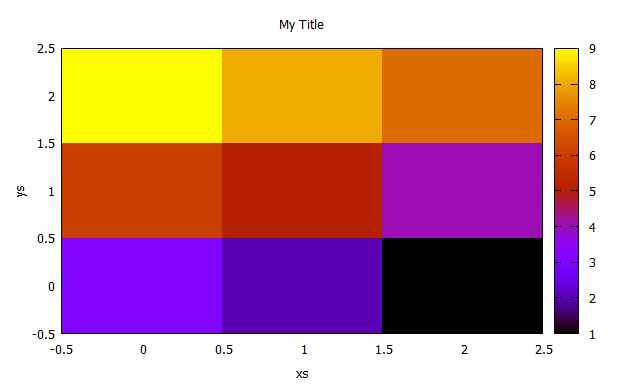
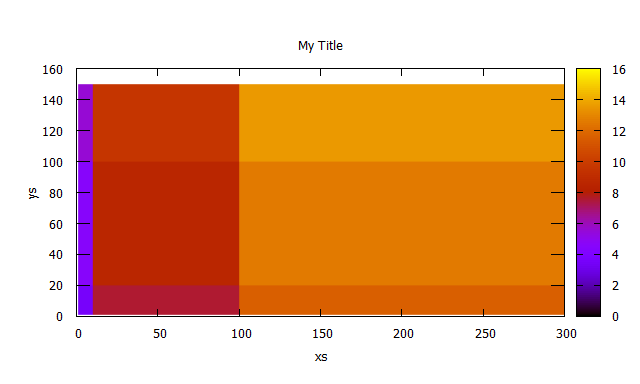
Fixing heatmap plotting

diff --git a/src/configuration/plot/style - Copy.rs b/src/configuration/plot/style - Copy.rs
@@ -1,0 +1,98 @@
+//! Styles for plotting in gnuplot.
+
+use core::fmt::Display;
+
+/// A small collection of all possible styles.
+///
+/// # Remarks
+///
+/// There are ``From<>`` implementations for ease of use.
+#[derive(Debug, PartialOrd, PartialEq, Clone)]
+pub enum Style {
+    /// Default "default" or 0
+    Default,
+    /// Continuous lines "-" or "lines" or 1
+    Lines,
+    /// Points "+" or "points" or 2
+    Points,
+    /// Points and lines together "-+-" or "linepoints" or 3
+    Linespoints,
+    /// Vertical line per data point "|" or "impulses" or 4
+    Impulses,
+    /// Smallest point possible "." or "dots" or 5
+    Dots,
+    /// Piecewise constant with jumps on data points "_|" or "steps" or 6
+    Steps,
+    /// Piecewise constant with jumps previous to data points "|-"or "fsteps" or 7
+    Fsteps,
+    /// Piecewise constant centered in data points "_-_" or "histeps" or 8
+    Histeps,
+    /// Adjustable piecewise constant centered in data points "_--_" or "boxes" or 9
+    Boxes,
+}
+
+impl From<&str> for Style {
+    fn from(s: &str) -> Self {
+        let s = s.trim().to_lowercase();
+        match s.as_str() {
+            "default" => Style::Default,
+            "lines" | "-" => Style::Lines,
+            "points" | "+" => Style::Points,
+            "linespoints" | "-+-" => Style::Linespoints,
+            "impulses" | "|" => Style::Impulses,
+            "dots" | "." => Style::Dots,
+            "steps" | "_|" => Style::Steps,
+            "fsteps" | "|-" => Style::Fsteps,
+            "histeps" | "_-_" => Style::Histeps,
+            "boxes" | "_--_" => Style::Boxes,
+            _ => Style::Lines,
+        }
+    }
+}
+
+impl From<String> for Style {
+    fn from(s: String) -> Self {
+        Style::from(s.as_str())
+    }
+}
+
+impl From<u32> for Style {
+    fn from(s: u32) -> Self {
+        match s {
+            0 => Style::Default,
+            1 => Style::Lines,
+            2 => Style::Points,
+            3 => Style::Linespoints,
+            4 => Style::Impulses,
+            5 => Style::Dots,
+            6 => Style::Steps,
+            7 => Style::Fsteps,
+            8 => Style::Histeps,
+            9 => Style::Boxes,
+            _ => Style::Default,
+        }
+    }
+}
+
+impl Display for Style {
+    fn fmt(&self, f: &mut core::fmt::Formatter<'_>) -> core::fmt::Result {
+        match self {
+            Style::Default => write!(f, "lines"),
+            Style::Lines => write!(f, "lines"),
+            Style::Points => write!(f, "points"),
+            Style::Linespoints => write!(f, "linespoints"),
+            Style::Impulses => write!(f, "impulses"),
+            Style::Dots => write!(f, "dots"),
+            Style::Steps => write!(f, "steps"),
+            Style::Fsteps => write!(f, "fsteps"),
+            Style::Histeps => write!(f, "histeps"),
+            Style::Boxes => write!(f, "boxes"),
+        }
+    }
+}
+
+impl Default for Style {
+    fn default() -> Self {
+        Style::Default
+    }
+}

diff --git a/src/matrix.rs b/src/matrix.rs
@@ -9,6 +9,19 @@ pub use comparison::Heatmaps;
 
 /// Indexed sequence of values.
 ///
+/// Check out [pm3d documentation] of gnuplot for more options.
+///
+/// # Remarks
+///
+/// If you want to plot the original grid points (and not some interpolation), then
+/// try the command
+/// ```gnuplot
+/// splot <file> with points pointsize 3 pointtype 5 palette
+/// ```
+/// adjusting the pointsize value (in this case `3`) to your case.
+/// This is particularly useful when you have just a few values.
+///
+///
 /// # Examples
 ///
 /// Quick plot.
@@ -31,6 +44,7 @@ pub use comparison::Heatmaps;
 /// ```
 ///
 /// [Heatmap]: struct.Heatmap.html
+/// [pm3d documentation]: http://gnuplot.sourceforge.net/demo/pm3d.html
 #[derive(Debug, PartialEq, Clone)]
 pub struct Heatmap<T, S, U>
 where
@@ -146,6 +160,7 @@ where
                     self.values[i * self.ys.len() + j]
                 ));
             }
+            plotable_data.push_str("\n");
         }
         plotable_data
     }
@@ -160,7 +175,8 @@ where
     fn plot_script(&self) -> String {
         let mut gnuplot_script = self.opening_plot_script();
 
-        gnuplot_script += &format!("plot {:?} using 1:2:3 with image\n", self.data_path(),);
+        gnuplot_script += "set pm3d map\n";
+        gnuplot_script += &format!("splot {:?} using 1:2:3\n", self.data_path(),);
         gnuplot_script += &self.ending_plot_script();
 
         gnuplot_script

diff --git a/examples/heatmaps/main.rs b/examples/heatmaps/main.rs
@@ -2,18 +2,30 @@ use preexplorer::prelude::*;
 
 fn main() -> anyhow::Result<()> {
     // From coordinate values
-    let xs = vec![1, 10, 100];
-    let ys = vec![1, 20, 50];
-    let values = vec![1, 2, 3, 4, 5, 6, 7, 8, 9];
+    let xs = vec![1, 10, 100, 300];
+    let ys = vec![1, 20, 100, 150];
+    let values: Vec<_> = (1..=16).collect();
     let heatmap = pre::Heatmap::new(xs, ys, values)
-        .set_title("first")
+        .set_title("My first title")
+        .set_xlabel("xs")
+        .set_ylabel("ys")
         .to_owned();
 
     // From a matrix
-    let matrix = ndarray::arr2(&[[1, 2, 3], [4, 5, 6], [7, 8, 9]]);
-    (heatmap + pre::Heatmap::from(matrix).set_title("second").to_owned())
-        .set_title("Overall title")
-        .plot("my_identifier")?;
+    let matrix = ndarray::arr2(&[
+        [4, 8, 12, 16],
+        [3, 7, 11, 15],
+        [2, 6, 10, 14],
+        [1, 5, 9, 13],
+    ]);
+    (heatmap
+        + pre::Heatmap::from(matrix)
+            .set_title("My second title")
+            .set_xlabel("xs")
+            .set_ylabel("ys")
+            .to_owned())
+    .set_title("Overall title")
+    .plot("my_identifier")?;
 
     Ok(())
 }

diff --git a/examples/heatmap/main.rs b/examples/heatmap/main.rs
@@ -2,22 +2,27 @@ use preexplorer::prelude::*;
 
 fn main() -> anyhow::Result<()> {
     // From coordinate values
-    let xs = vec![1., 10., 100.];
-    let ys = vec![1., 20., 50.];
-    let values = vec![1, 2, 3, 4, 5, 6, 7, 8, 9];
+    let xs = vec![1., 10., 100., 300.];
+    let ys = vec![1., 20., 100., 150.];
+    let values: Vec<usize> = (1..=16).collect();
     pre::Heatmap::new(xs, ys, values)
         .set_title("My Title")
         .set_xlabel("xs")
         .set_ylabel("ys")
         .plot("my_identifier")?;
 
-    // From a matrix
-    let matrix = ndarray::arr2(&[[3, 6, 9], [2, 5, 8], [1, 4, 7]]);
+    // From a matrix (coordinates are replaced by simple enumeration)
+    let matrix = ndarray::arr2(&[
+        [4, 8, 12, 16],
+        [3, 7, 11, 15],
+        [2, 6, 10, 14],
+        [1, 5, 9, 13],
+    ]);
     pre::Heatmap::from(matrix)
-        .set_title("My Title")
+        .set_title("My Title 2")
         .set_xlabel("xs")
         .set_ylabel("ys")
-        .plot("my_identifier")?;
+        .plot("my_identifier_2")?;
 
     Ok(())
 }

diff --git a/src/matrix/comparison.rs b/src/matrix/comparison.rs
@@ -155,10 +155,9 @@ where
                 None => counter.to_string(),
             };
 
-            gnuplot_script += &format!(
-                "set title \"{}\"\nplot {:?} using 1:2:3 with image\n",
-                legend, inner_path,
-            );
+            gnuplot_script += &format!("set title \"{}\"\n", legend,);
+            gnuplot_script += "set pm3d map\n";
+            gnuplot_script += &format!("splot {:?} using 1:2:3\n", inner_path,);
         }
         gnuplot_script += "\n";
         gnuplot_script += &self.ending_plot_script();

diff --git a/Changelog.md b/Changelog.md
@@ -1,7 +1,8 @@
 # Changelog
 
-## 0.3.6 [ongoing]
+## 0.4.1 [ongoing]
 
+- Fix: Heatmaps are now plotted correctly using `pm3d` instead of `image` 
 - Updated dependencies
 - Errors are now non-exhaustive for less breaking changes
 

diff --git a/To do.md b/To do.md
@@ -1,2 +1,5 @@
+- Correct heatmap implementation of plotting to adhere to xs and ys values
 - Add serde support
+- Add set_output to plotting configuration and plotting codes
+- 
 
